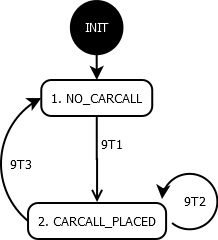
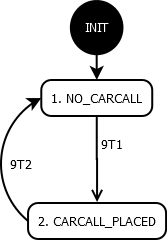
CarButtonControl State Transition
Modified CarButtonControl State Transition

diff --git a/portfolio/reqs/requirements2.html b/portfolio/reqs/requirements2.html
@@ -1017,22 +1017,29 @@ then: <br>
 &nbsp;&nbsp;&nbsp; 5.6.1&nbsp; DoorMotor[b, r] shall be commanded to
 Open; <br>
 &nbsp;&nbsp;&nbsp; 5.6.2&nbsp; CountDown shall be set to Dwell.<br>
-5.7 &nbsp;&nbsp; If mDoorOpened[b, r] is True, then<br>
-&nbsp;&nbsp;&nbsp; 5.7.1&nbsp; DoorMotor[b,r] shall be commanded to
+
+5.7 &nbsp;&nbsp; If any mAtFloor[f, b] is True AND mCarCall[f,b] is true AND mDoorClosed[b,r] is false, AND mDriveSpeed = (0, d) OR mDriveSpeed = (s, Stop)
+then: <br>
+&nbsp;&nbsp;&nbsp; 5.7.1&nbsp; DoorMotor[b, r] shall be commanded to
+Open; <br>
+&nbsp;&nbsp;&nbsp; 5.7.2&nbsp; CountDown shall be set to Dwell.<br>
+
+5.8 &nbsp;&nbsp; If mDoorOpened[b, r] is True, then<br>
+&nbsp;&nbsp;&nbsp; 5.8.1&nbsp; DoorMotor[b,r] shall be commanded to
 Stop.<br>
-&nbsp;&nbsp;&nbsp; 5.7.2&nbsp; CountDown shall be decremented.<br>
-5.8&nbsp; If mDoorClosed[b, r] is True, then DoorMotor[b,r] should be
+&nbsp;&nbsp;&nbsp; 5.8.2&nbsp; CountDown shall be decremented.<br>
+5.9&nbsp; If mDoorClosed[b, r] is True, then DoorMotor[b,r] should be
 commanded to Stop.<br>
-5.9&nbsp; When CountDown &lt;= 0, DoorMotor[b,r] should be commanded
+5.10&nbsp; When CountDown &lt;= 0, DoorMotor[b,r] should be commanded
 to Nudge.<br>
-5.10 If mCarWeight(g) &gt;= MaxCarCapacity, and mDoorOpened[b, r] is
+5.11 If mCarWeight(g) &gt;= MaxCarCapacity, and mDoorOpened[b, r] is
 False, DoorMotor[b, r] shall be commanded to Open.<br>
-5.11 Dwell shall be set to an appropriate value based on
+5.12 Dwell shall be set to an appropriate value based on
 mDesiredDwell[b].<br>
-5.12 mDoorMotor[b,r] shall be set to the current value of DoorMotor[b,r]<br>
-5.13 If any mDoorReversal[b,*] is true, then: <br>
-&nbsp;&nbsp;&nbsp; 5.13.1&nbsp;DoorMotor[b,*] shall be commanded to Open.<br>
-&nbsp;&nbsp;&nbsp; 5.13.2&nbsp;CountDown shall be set to Dwell.<br>
+5.13 mDoorMotor[b,r] shall be set to the current value of DoorMotor[b,r]<br>
+5.14 If any mDoorReversal[b,*] is true, then: <br>
+&nbsp;&nbsp;&nbsp; 5.14.1&nbsp;DoorMotor[b,*] shall be commanded to Open.<br>
+&nbsp;&nbsp;&nbsp; 5.14.2&nbsp;CountDown shall be set to Dwell.<br>
 
 
 
@@ -1465,18 +1472,18 @@ None
 <h3> CONSTRAINTS: </h3>
 None
 <h3> TIME-TRIGGERED BEHAVIORS: </h3>
-9.1&nbsp;&nbsp; If CarCall[f,b] is True OR (mCarCall[f,b] is True AND mAtFloor[f,b] is False), then: <br>
+9.1&nbsp;&nbsp; If CarCall[f,b] is True, then: <br>
 &nbsp;&nbsp;&nbsp; 9.1.1&nbsp; CarLight[f,b] shall be commanded to On.<br>
 &nbsp;&nbsp;&nbsp; 9.1.2&nbsp; mCarLight[f,b] shall be set to True.<br>
 &nbsp;&nbsp;&nbsp; 9.1.2&nbsp; mCarCall[f,b] shall be set to True.<br>
-9.2&nbsp;&nbsp; If mCarCall[f,b] is True AND mAtFloor[f,b] is True, then: <br>
+9.2&nbsp;&nbsp; If CarCall[f,b] is False AND mAtFloor[f,b] is True, then: <br>
 &nbsp;&nbsp;&nbsp; 9.2.1&nbsp; CarLight[f,b] shall be commanded to Off <br>
 &nbsp;&nbsp;&nbsp; 9.2.2&nbsp; mCarLight[f,b] shall be set to False.<br>
 &nbsp;&nbsp;&nbsp; 9.2.3&nbsp; mCarCall[f,b] shall be set to False <br>
 <br>
 <p><a href="CarButtonControl_state_diagram.png"><img
  alt="pCarButtonControl_state_diagram.png" src="CarButtonControl_state_diagram.png"
- style="border: 0px solid ; width: 218px; height: 240px;"></a><br>
+ style="border: 0px solid ; width: 167px; height: 240px;"></a><br>
 </p>
 <table style="text-align: left; width: 450px;" border="1"
  cellpadding="2" cellspacing="2">
@@ -1494,11 +1501,7 @@ None
     </tr>
     <tr>
       <td style="vertical-align: top;">9.T.2</td>
-      <td style="vertical-align: top;">mCarCall[f,b] == true &amp;&amp; mAtFloor[f,b] == false</td>
-    </tr>
-    <tr>
-      <td style="vertical-align: top;">9.T.3</td>
-      <td style="vertical-align: top;">mCarCall[f,b] == true &amp;&amp; mAtFloor[f,b] == true</td>
+      <td style="vertical-align: top;">CarCall[f,b] == false &amp; &amp; mAtFloor[f,b] == true</td>
     </tr>
   </tbody>
 </table>
